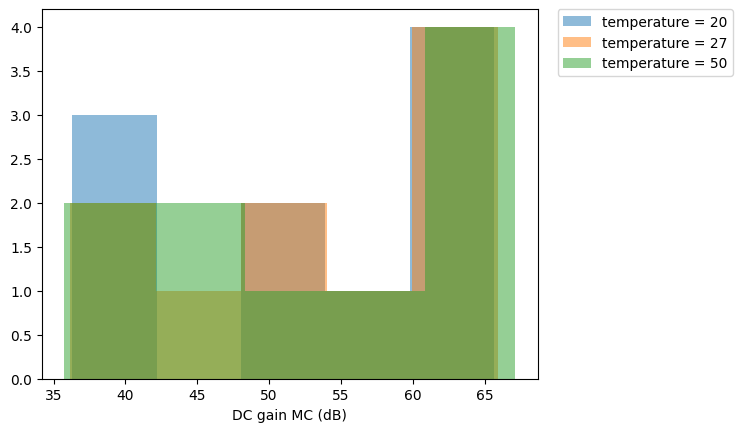
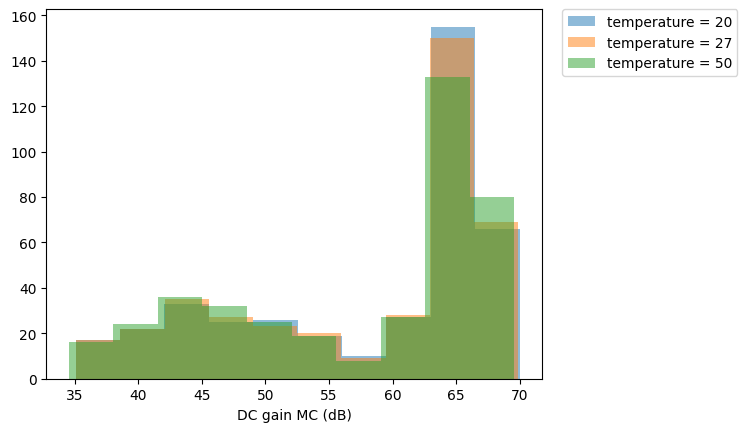
add DC gain MC results for 400 iterations from CACE

diff --git a/docs/ttsky25_two_stage_opamp_rcx.md b/docs/ttsky25_two_stage_opamp_rcx.md
@@ -8,7 +8,7 @@
 | DC gain              | ngspice              | gain_max             |           60 dB |  60.384 dB |          any |  65.640 dB |          any |  66.955 dB |   Pass ✅    |
 | Unity Gain Frequency | ngspice              | ugf                  |          1e6 Hz | 15365500.000 Hz |          any | 17077900.000 Hz |          any | 18803600.000 Hz |   Pass ✅    |
 | Phase Margin         | ngspice              | pm                   |            60 ° |   63.969 ° |          any |   64.724 ° |          any |   65.680 ° |   Pass ✅    |
-| DC gain MC           | ngspice              | gain_max             |             any |  35.740 dB |          any |  54.846 dB |          any |  67.131 dB |   Pass ✅    |
+| DC gain MC           | ngspice              | gain_max             |             any |  34.525 dB |          any |  64.023 dB |          any |  70.003 dB |   Pass ✅    |
 | Area                 | magic_area           | area                 |                |           |             |           |    11200 µm² | 2777.110 µm² |   Pass ✅    |
 | Width                | magic_area           | width                |                |           |             |           |          any |  48.500 µm |   Pass ✅    |
 | Height               | magic_area           | height               |                |           |             |           |          any |  57.260 µm |   Pass ✅    |
